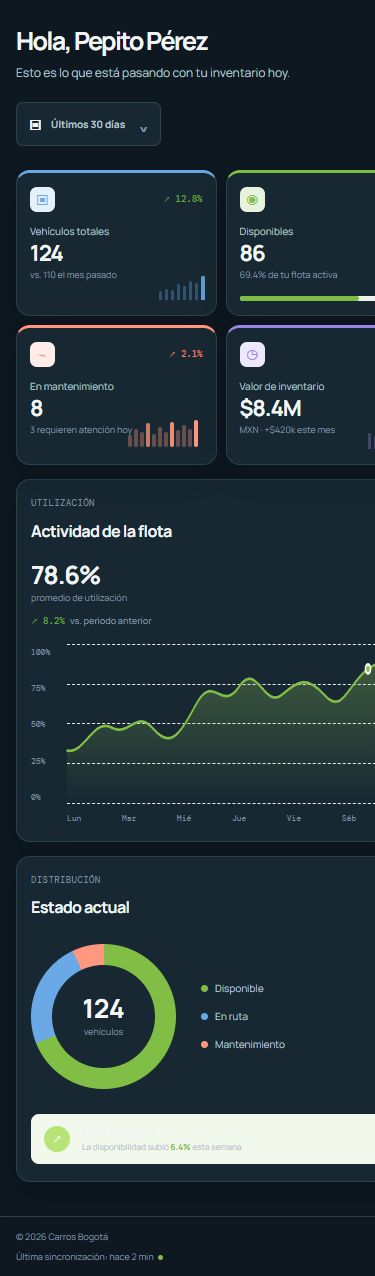
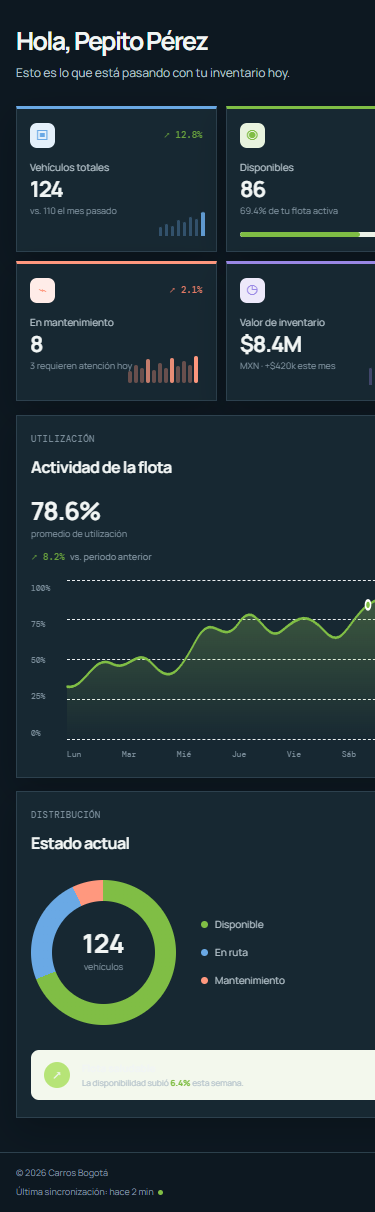
remove date control and square dashboard modules

diff --git a/styles.css b/styles.css
@@ -59,3 +59,5 @@ a { color: inherit; text-decoration: none; }
 @media (max-width: 820px) { .app-shell { display: block; min-height: 100vh; }.sidebar { position: fixed; inset: 0 auto 0 0; width: 248px; transform: translateX(-100%); transition: transform .25s ease; }.sidebar.open { transform: translateX(0); }.sidebar-close { display: block; position: absolute; top: 25px; right: 17px; background: transparent; color: var(--sidebar-soft); font-size: 24px; }.sidebar-overlay { display: block; position: fixed; inset: 0; z-index: 4; visibility: hidden; background: rgba(21,37,54,.36); opacity: 0; transition: opacity .25s, visibility .25s; }.sidebar-overlay.visible { visibility: visible; opacity: 1; }.topbar { height: 64px; padding: 0 24px; }.menu-toggle { display: flex; flex-direction: column; align-items: stretch; gap: 4px; width: 25px; margin-right: 14px; padding: 5px 0; }.menu-toggle span { display: block; width: 18px; height: 2px; border-radius: 2px; background: var(--ink); }.breadcrumb { flex: 1; }.main-content { padding: 34px 24px 24px; }.footer { min-height: 52px; padding: 0 24px; }.dashboard-grid { grid-template-columns: 1fr; }.status-panel { display: grid; grid-template-columns: 1fr 1.35fr; column-gap: 20px; }.status-panel .panel-heading { grid-column: 1 / -1; }.status-panel .donut-wrap { margin: 22px 0; }.status-panel .status-note { align-self: end; margin-bottom: 22px; } }
 @media (max-width: 560px) { body { font-size: 12px; }.topbar { padding: 0 16px; }.topbar-actions { gap: 7px; }.export-button { width: 31px; height: 31px; justify-content: center; padding: 0; font-size: 0; }.export-button span { font-size: 20px; }.main-content { padding: 27px 16px 20px; }.page-intro { display: block; margin-bottom: 24px; }.date-button { margin-top: 20px; }.metrics-grid { gap: 9px; }.metric-card { min-height: 140px; padding: 14px 13px; }.metric-card strong { font-size: 22px; }.metric-card p { margin-top: 12px; }.metric-card small { max-width: 105px; line-height: 1.35; }.sparkline { right: 11px; bottom: 15px; width: 46px; }.panel { padding: 17px 14px; }.activity-panel { min-width: 0; }.chart-meta { display: block; margin-top: 19px; }.chart-meta .trend { display: block; margin-top: 10px; }.status-panel { display: block; }.status-panel .donut-wrap { justify-content: center; margin: 25px 0; }.status-panel .status-note { margin: 0; }.inventory-heading { display: block; }.table-actions { margin-top: 16px; }.search-box { flex: 1; width: auto; }.filter-button { font-size: 0; }.filter-button span { font-size: 16px; }.footer { flex-wrap: wrap; gap: 6px 15px; padding: 13px 16px; }.footer span:nth-child(2) { margin-left: 0; order: 3; flex-basis: 100%; }.footer a { display: none; } }
 @media (prefers-reduced-motion: reduce) { *, *::before, *::after { scroll-behavior: auto !important; transition-duration: .01ms !important; animation-duration: .01ms !important; } .metric-card:hover, .panel:hover, .metric-card.is-pressed, .panel.is-pressed { transform: none !important; } }
+
+.metric-card, .panel { border-radius: 0; }

diff --git a/index.html b/index.html
@@ -15,7 +15,6 @@
     <main class="main-content" id="resumen" role="main">
       <section class="page-intro" aria-labelledby="page-title">
         <div><h1 id="page-title">Hola, Pepito Pérez</h1><p class="intro-copy">Esto es lo que está pasando con tu inventario hoy.</p></div>
-        <button class="date-button" type="button"><span aria-hidden="true">▣</span> Últimos 30 días <span aria-hidden="true">⌄</span></button>
       </section>
 
       <section class="metrics-grid" aria-label="Métricas principales">
